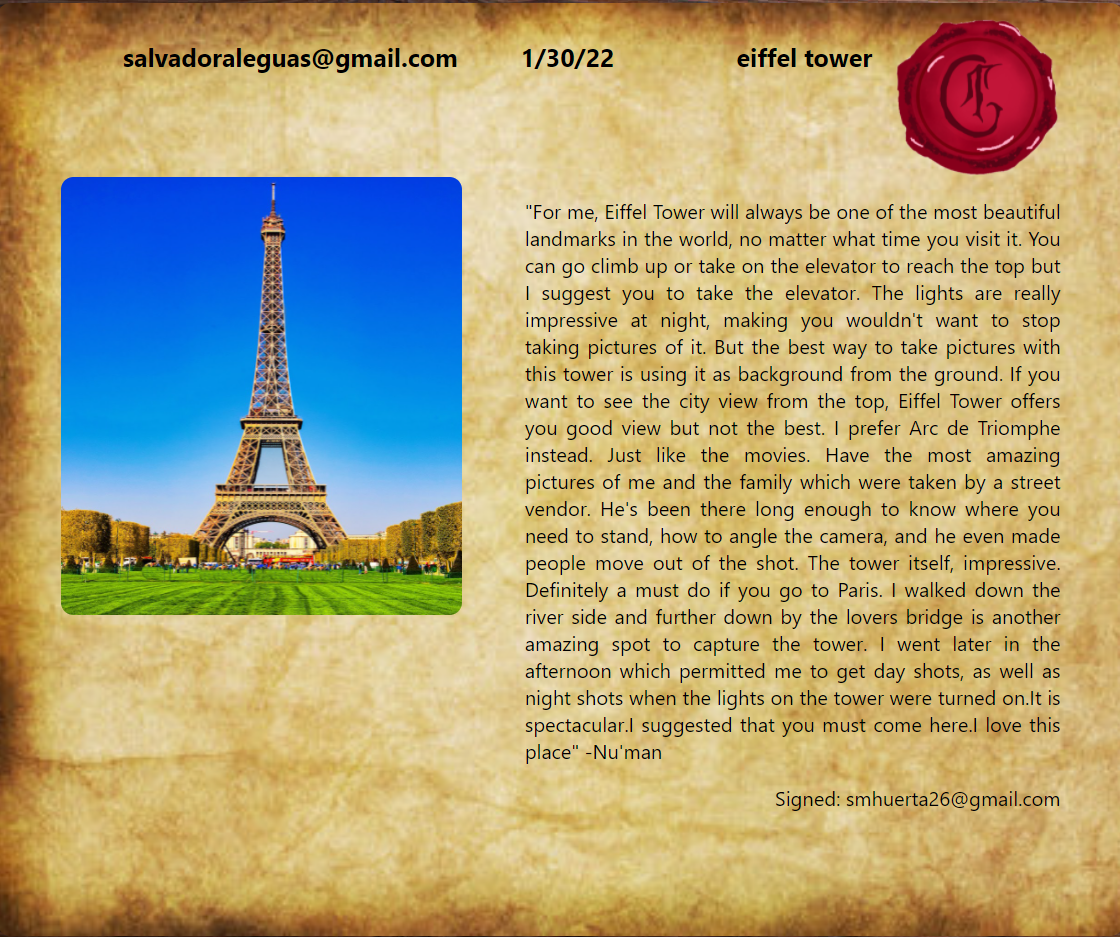
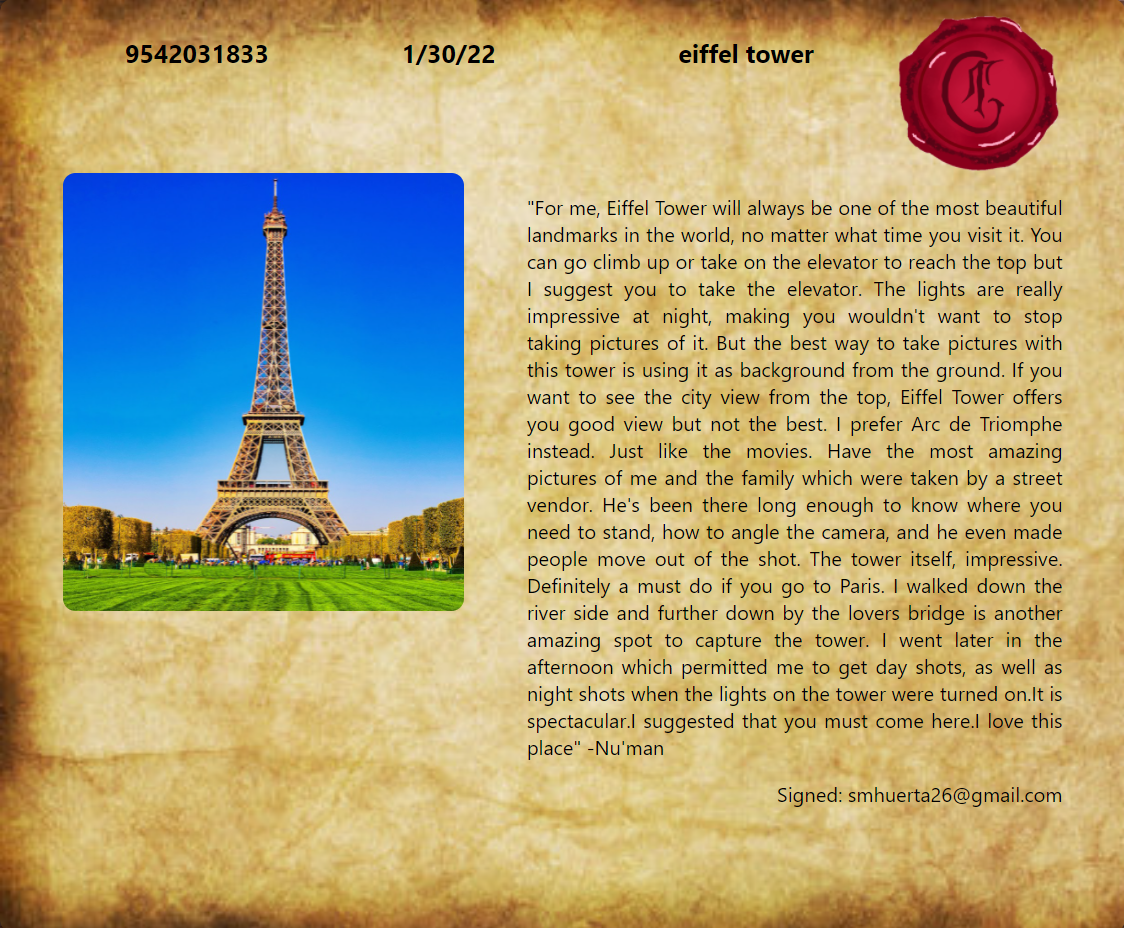
d

diff --git a/src/hacks_react/src/pages/postcardCreation.js b/src/hacks_react/src/pages/postcardCreation.js
@@ -23,9 +23,9 @@ export default function CreatePostcard() {
     const [imgLink, setImgLink] = React.useState();
     const [review, setReview] = React.useState({text:"", author_name:""});
     const [email, setEmail] = React.useState();
-    const [number, setNumber] = React.useState();
     const [location, setLocation] = React.useState('transparent_background');
     const [date, setDate] = React.useState();
+    const [number, setNumber] = React.useState();
     const refSelf = React.useRef();
 
     const getLocation = async() => {
@@ -98,7 +98,7 @@ export default function CreatePostcard() {
                 }}>
                     
                 <div style={{display:'flex'}}>
-                <p style={{float:'left',textAlign:'justify', width:'100%',marginLeft:'50px', fontSize:'20px', fontWeight:'bold'}}>{email}</p>
+                <p style={{float:'left',textAlign:'justify', width:'100%',marginLeft:'50px', fontSize:'20px', fontWeight:'bold'}}>{number}</p>
                 <p style={{float:'left',textAlign:'justify', width:'100%',marginLeft:'50px', fontSize:'20px', fontWeight:'bold'}}>{date}</p>
                 <p style={{float:'left',textAlign:'justify', width:'100%',marginLeft:'50px', fontSize:'20px', fontWeight:'bold'}}>{location!=='transparent_background' ? location : ""}</p>
                 <img style={{maxHeight:'130px'}}src ={tempSeal} />
@@ -133,12 +133,6 @@ export default function CreatePostcard() {
 
         <Typography style={{textAlign:'center',paddingTop:'100px', fontSize:'30px'}}>Input Values</Typography>
         <div style={{paddingTop:'30px'}}>
-        <TextField
-            label='Recipient Email'
-            onChange={(e)=>{setEmail(e.target.value)}}
-            required
-          />
-          </div>
           <div style={{paddingTop:'30px'}}>
         <TextField
             label='Recipient Phone Number'
@@ -175,6 +169,7 @@ export default function CreatePostcard() {
             </Button>
           </div>
           </div>
+        </div>
         </div>
         </div>
   );
